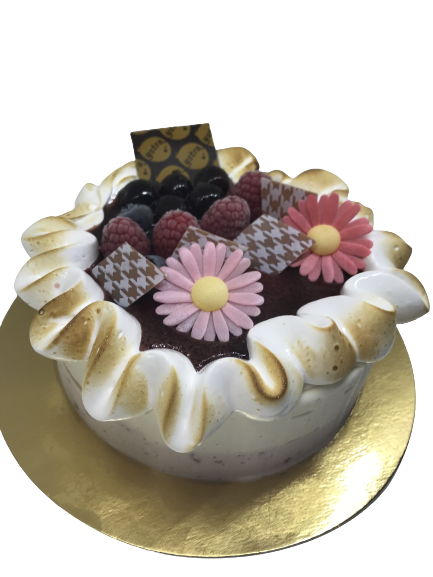
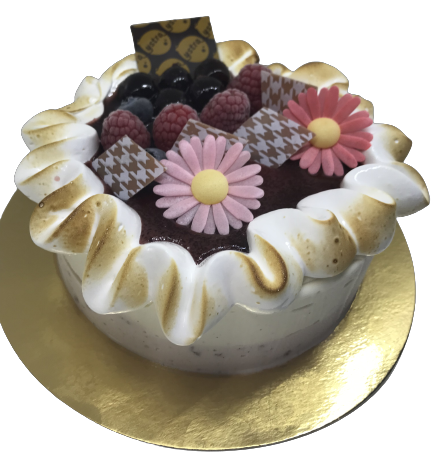
finish photos taartendialog

diff --git a/src/css/onsaanbod.css b/src/css/onsaanbod.css
@@ -126,6 +126,7 @@ body{
     width: auto;
     margin: auto auto;
     display: block;
+    padding-top: 32px;
 }
 #taart1:hover {
     transform: scale(1);
@@ -136,6 +137,7 @@ body{
     width: auto;
     margin: auto auto;
     display: block;
+    padding-top: 5px;
 }
 #taart2:hover {
     transform: scale(1);
@@ -146,6 +148,8 @@ body{
     width: auto;
     margin: auto auto;
     display: block;
+    padding-left: 15px;
+    padding-top: 5px;
 }
 #taart3:hover {
     transform: scale(1);
@@ -157,16 +161,19 @@ body{
     margin: auto auto;
     margin-top: 15px;
     display: block;
+    padding-top: 15px;
+    padding-left: 5px;
 }
 #taart4:hover {
     transform: scale(1);
 }
 
 #taart5 {
-    height: 350px;
+    height: 275px;
     width: auto;
     margin: auto auto;
     display: block;
+    padding-top: 55px;
 }
 #taart5:hover {
     transform: scale(1);
@@ -177,16 +184,18 @@ body{
     width: auto;
     margin: auto auto;
     display: block;
+    padding-top: 20px;
 }
 #taart6:hover {
     transform: scale(1);
 }
 
 #taart7 {
-    height: 300px;
+    height: 325px;
     width: auto;
     margin: auto auto;
     display: block;
+    padding-top: 30px;
 }
 #taart7:hover {
     transform: scale(1);
@@ -199,6 +208,7 @@ body{
     height: 350px;
     width: auto;
     margin: auto auto;
+    padding-bottom: 15px;
 }
 
 #fotoDialog {
